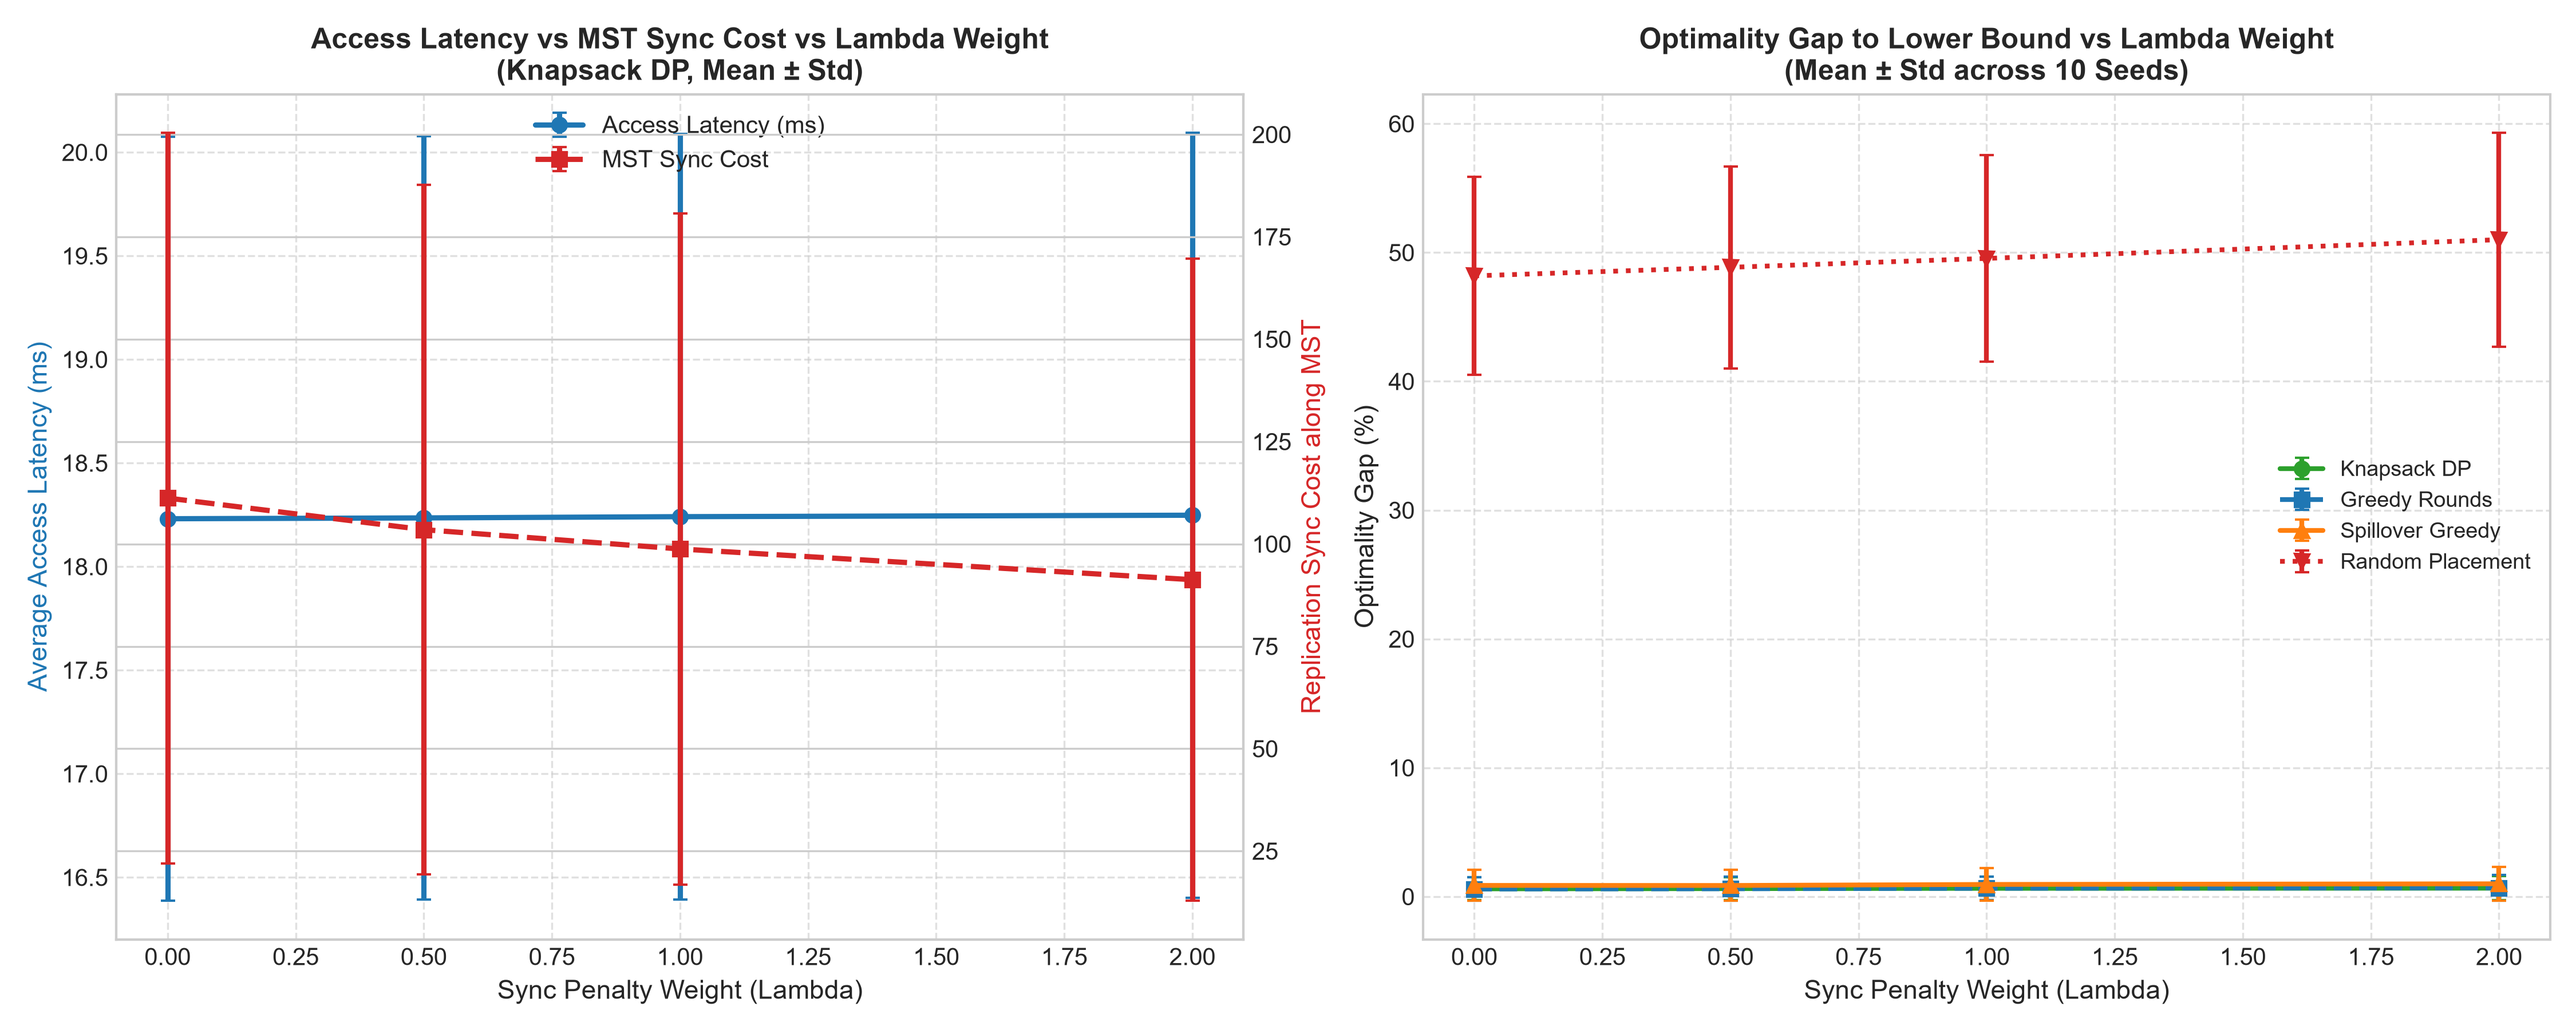
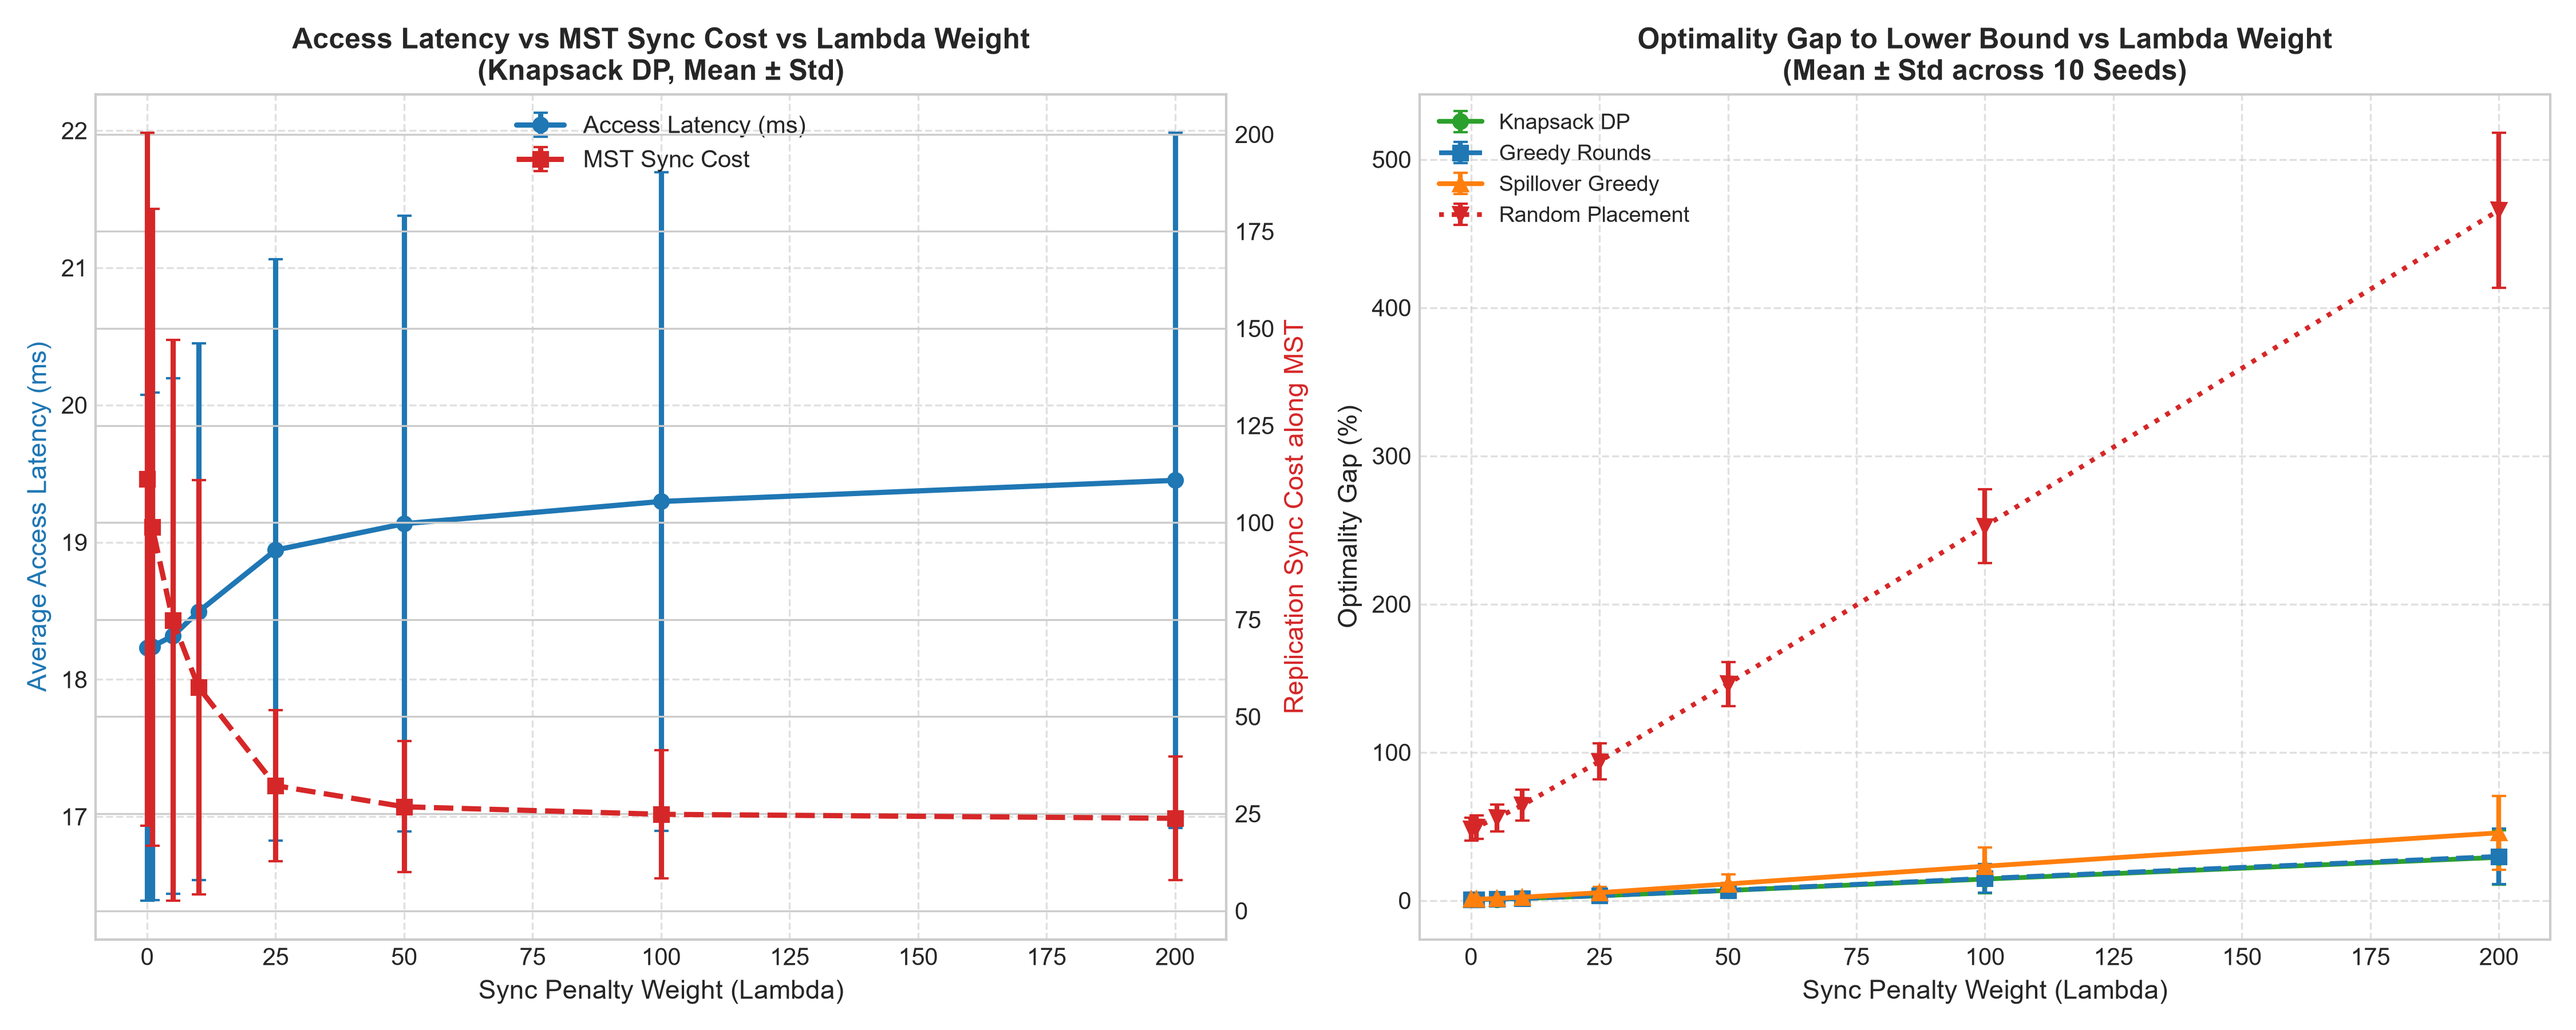
fix: add pandas, clean README, compute demo takeaways, and expand lambda/brute-force benchmarks
- Add pandas>=2.0.0 to requirements.txt and verify fresh virtualenv top-to-bottom
- Clean README.md: remove non-existent johnson.py and Johnson references, ensuring tree matches disk
- Make takeaways 3 and 4 in run_demo.py dynamically computed from real instance metrics
- Re-run lambda sensitivity with lambda in [0, 1, 5, 10, 25, 50, 100, 200] across 10 seeds
- Add 60-instance brute-force optimality experiment with CSV per-instance gap reporting

diff --git a/experiments/run_experiments.py b/experiments/run_experiments.py
@@ -498,7 +498,8 @@ def benchmark_placement_lambda(
     num_tasks: int = 35,
 ) -> List[Dict[str, Any]]:
     """Evaluates access latency vs MST sync cost trade-off across lambda weights."""
-    print(f"\n--- Running Lambda Sensitivity Sweep (0.0, 0.5, 1.0, 2.0, {num_seeds} seeds) ---")
+    lambda_str = ", ".join(f"{l}" for l in lambdas)
+    print(f"\n--- Running Lambda Sensitivity Sweep ([{lambda_str}], {num_seeds} seeds) ---")
     results = []
 
     for lmb in lambdas:
@@ -527,7 +528,7 @@ def benchmark_placement_lambda(
 
         results.append(row)
         print(
-            f"  Lambda={lmb:3.1f} | "
+            f"  Lambda={lmb:5.1f} | "
             f"Access Lat: {row['iterative_knapsack_dp_lat_mean']:5.2f} ± {row['iterative_knapsack_dp_lat_std']:4.2f} ms | "
             f"Sync Cost: {row['iterative_knapsack_dp_sync_mean']:5.1f} ± {row['iterative_knapsack_dp_sync_std']:4.1f} | "
             f"DP Gap: {row['iterative_knapsack_dp_gap_mean']:5.2f}%"
@@ -540,6 +541,91 @@ def benchmark_placement_lambda(
         writer.writerows(results)
     print(f"Saved: {csv_path}")
     return results
+
+
+def benchmark_brute_force_optimality(
+    num_instances: int = 60,
+    num_servers: int = 5,
+    num_tasks: int = 6,
+) -> Dict[str, Any]:
+    """Evaluates Iterative Knapsack DP against the exact Brute-Force optimum on random tiny instances.
+
+    Generates num_instances random tiny instances with random server capacities,
+    link latencies, task demands, client access traffic, and replication traffic.
+    Saves results to brute_force_optimality_gap.csv.
+    """
+    print(f"\n--- Running Brute-Force Optimality Experiment ({num_instances} instances: {num_servers} servers, {num_tasks} tasks) ---")
+    rows: List[Dict[str, Any]] = []
+    gaps: List[float] = []
+
+    for i in range(num_instances):
+        seed = 2000 + i
+        g = generate_cloud_topology(
+            num_nodes=num_servers,
+            edge_density=0.50,
+            latency_range=(5.0, 30.0),
+            capacity_range=(35, 65),
+            seed=seed,
+        )
+        tasks = generate_synthetic_workload(
+            graph=g,
+            num_tasks=num_tasks,
+            demand_range=(15, 35),
+            requests_per_task=(10.0, 100.0),
+            replication_traffic_range=(2.0, 20.0),
+            seed=seed,
+        )
+        opt = CloudPlacementOptimizer(g, tasks, lambda_sync=1.0)
+        report = opt.optimize()
+
+        bf = report.strategy_metrics.get("brute_force_optimal")
+        dp = report.strategy_metrics.get("iterative_knapsack_dp")
+
+        if bf is not None and dp is not None and bf.total_objective > 0:
+            gap_pct = max(0.0, ((dp.total_objective - bf.total_objective) / bf.total_objective) * 100.0)
+            gaps.append(gap_pct)
+            rows.append({
+                "instance_id": i + 1,
+                "seed": seed,
+                "num_servers": num_servers,
+                "num_tasks": num_tasks,
+                "bf_total_objective": round(bf.total_objective, 2),
+                "dp_total_objective": round(dp.total_objective, 2),
+                "optimality_gap_pct": round(gap_pct, 4),
+                "bf_placed_tasks": bf.placed_tasks_count,
+                "dp_placed_tasks": dp.placed_tasks_count,
+                "bf_access_latency_ms": round(bf.average_access_latency, 2),
+                "dp_access_latency_ms": round(dp.average_access_latency, 2),
+                "bf_sync_cost": round(bf.average_sync_cost, 2),
+                "dp_sync_cost": round(dp.average_sync_cost, 2),
+            })
+
+    csv_path = os.path.join(RESULTS_DIR, "brute_force_optimality_gap.csv")
+    with open(csv_path, "w", newline="", encoding="utf-8") as f:
+        writer = csv.DictWriter(f, fieldnames=rows[0].keys())
+        writer.writeheader()
+        writer.writerows(rows)
+    print(f"Saved: {csv_path}")
+
+    mean_gap = statistics.mean(gaps)
+    median_gap = statistics.median(gaps)
+    max_gap = max(gaps)
+    exceed_5 = sum(1 for g in gaps if g > 5.0)
+
+    print("\n--- Brute-Force Optimality Summary ---")
+    print(f"  Total Tiny Instances Evaluated : {len(gaps)}")
+    print(f"  Mean Optimality Gap            : {mean_gap:.4f}%")
+    print(f"  Median Optimality Gap          : {median_gap:.4f}%")
+    print(f"  Maximum Optimality Gap         : {max_gap:.4f}%")
+    print(f"  Instances Exceeding 5% Gap     : {exceed_5} / {len(gaps)} ({exceed_5 / len(gaps) * 100.0:.1f}%)")
+
+    return {
+        "mean_gap": mean_gap,
+        "median_gap": median_gap,
+        "max_gap": max_gap,
+        "exceed_5_count": exceed_5,
+        "total_instances": len(gaps),
+    }
 
 
 # ==============================================================================
@@ -857,7 +943,8 @@ def main():
     cap_res = benchmark_placement_capacity(multipliers=[0.25, 0.50, 0.75, 1.00, 1.25, 1.50, 2.00], num_seeds=10)
     task_res = benchmark_placement_num_tasks(task_counts=[15, 25, 35, 50, 75], num_seeds=10)
     size_res, density_res = benchmark_placement_graph_size_and_density(sizes=[15, 30, 50, 75], densities=[0.15, 0.35, 0.60, 0.85], num_seeds=10)
-    lambda_res = benchmark_placement_lambda(lambdas=[0.0, 0.5, 1.0, 2.0], num_seeds=10)
+    lambda_res = benchmark_placement_lambda(lambdas=[0.0, 1.0, 5.0, 10.0, 25.0, 50.0, 100.0, 200.0], num_seeds=10)
+    bf_res = benchmark_brute_force_optimality(num_instances=60, num_servers=5, num_tasks=6)
 
     # 3. Generate Visualizations with Error Bars
     print("\n--- Generating Publication-Grade Figures with Error Bars ---")

diff --git a/run_demo.py b/run_demo.py
@@ -171,10 +171,47 @@ def run_demo(lambda_sync: float = 0.5) -> None:
     latency_improvement_vs_rand = ((rand_m.average_access_latency - dp_m.average_access_latency) / rand_m.average_access_latency * 100.0)
     gap_vs_lower_bound = ((dp_m.total_objective - lb_obj) / lb_obj * 100.0)
 
+    # Compute actual DP vs Spill-Over gap
+    dp_obj = dp_m.total_objective
+    sp_obj = sp_m.total_objective
+    if dp_obj < sp_obj:
+        sp_gap_pct = (sp_obj - dp_obj) / sp_obj * 100.0
+        t3_str = (
+            f"Knapsack DP achieves a {sp_gap_pct:.2f}% lower total objective than Spill-Over Greedy "
+            f"({dp_obj:,.1f} vs {sp_obj:,.1f}, saving {sp_obj - dp_obj:,.1f} cost units)."
+        )
+    elif dp_obj > sp_obj:
+        sp_gap_pct = (dp_obj - sp_obj) / sp_obj * 100.0
+        t3_str = (
+            f"Spill-Over Greedy achieves a {sp_gap_pct:.2f}% lower objective on this instance "
+            f"({sp_obj:,.1f} vs {dp_obj:,.1f})."
+        )
+    else:
+        t3_str = f"Knapsack DP and Spill-Over Greedy tied with identical objective ({dp_obj:,.1f})."
+
+    # Compute fleet host counts and min/max utilization
+    hosting_servers = [s for s in report.server_summaries if s.placed_tasks]
+    num_hosting = len(hosting_servers)
+    total_servers = len(report.server_summaries)
+    if hosting_servers:
+        hosting_utils = [s.utilization_percent for s in hosting_servers]
+        min_host_util = min(hosting_utils)
+        max_host_util = max(hosting_utils)
+        all_utils = [s.utilization_percent for s in report.server_summaries]
+        min_all_util = min(all_utils)
+        max_all_util = max(all_utils)
+        t4_str = (
+            f"{num_hosting} of {total_servers} servers host tasks. "
+            f"Utilization on hosting servers ranges from {min_host_util:.1f}% to {max_host_util:.1f}% "
+            f"(overall fleet min: {min_all_util:.1f}%, max: {max_all_util:.1f}%)."
+        )
+    else:
+        t4_str = f"0 of {total_servers} servers host tasks (0.0% utilization)."
+
     print(f"  1. Solution Quality  : Knapsack DP is within {gap_vs_lower_bound:.2f}% of the theoretical unconstrained lower bound.")
     print(f"  2. Baseline Advantage: Knapsack DP cuts client access latency by {latency_improvement_vs_rand:.1f}% compared to Random placement.")
-    print(f"  3. Regret Coordination: Knapsack DP outperforms simple Spill-Over Greedy by coordinating bids across congested servers.")
-    print(f"  4. Fleet Distribution: Tasks are balanced across the whole fleet, avoiding bottlenecking on any single server.")
+    print(f"  3. Regret vs Greedy  : {t3_str}")
+    print(f"  4. Fleet Distribution: {t4_str}")
     print(f"  5. Sync Efficiency   : Server {report.sync_hub_node} serves as the centralized sync hub, keeping replication delay to {report.backbone_sync_latency:.2f} ms.")
     print("=" * 94 + "\n")
 

diff --git a/README.md b/README.md
@@ -62,24 +62,24 @@ cloud-task-placement/
 │   ├── graph/                     # Graph primitives and topology generation
 │   │   ├── __init__.py
 │   │   ├── graph.py               # Adjacency-list Graph and Node classes
-│   │   └── generator.py           # Reproducible synthetic topology generator
+│   │   ├── generator.py           # Reproducible synthetic topology generator
+│   │   ├── min_heap.py            # Binary Min-Heap priority queue with decrease-key
+│   │   └── disjoint_set.py        # Disjoint Set Union (DSU) with path compression & union-by-rank
 │   ├── mst/                       # Minimum Spanning Tree algorithms
 │   │   ├── __init__.py
-│   │   ├── dsu.py                 # Disjoint Set Union with path compression & rank
 │   │   ├── kruskal.py             # Kruskal's algorithm (O(E log E))
 │   │   └── prim.py                # Prim's algorithm with Min-Heap (O(E log V))
 │   ├── shortest_paths/            # Shortest path routing algorithms
 │   │   ├── __init__.py
-│   │   ├── priority_queue.py      # Binary Min-Heap with decrease-key capability
 │   │   ├── dijkstra.py            # Dijkstra's SSSP and APSP
 │   │   ├── bellman_ford.py        # Bellman-Ford SSSP (O(VE)) with negative cycle check
-│   │   ├── floyd_warshall.py      # Floyd-Warshall APSP (O(V^3))
-│   │   └── johnson.py             # Johnson's APSP for sparse graphs
+│   │   └── floyd_warshall.py      # Floyd-Warshall APSP (O(V^3))
 │   ├── placement/                 # Resource allocation & knapsack schedulers
 │   │   ├── __init__.py
 │   │   ├── knapsack_dp.py         # 0-1 Knapsack DP (pseudo-polynomial O(n*W))
 │   │   ├── greedy_scheduler.py    # Greedy ratio scheduler & fractional upper bound
-│   │   └── exact_solver.py        # Exact brute-force assignment solver
+│   │   ├── brute_force.py         # Exact brute-force assignment solver
+│   │   └── models.py              # Placement dataclasses and solution containers
 │   └── optimizer/                 # End-to-end optimizer pipeline
 │       ├── __init__.py
 │       ├── workload.py            # Task and Workload data classes
@@ -235,7 +235,7 @@ As $\lambda$ increases from $0.0$ to $2.0$:
 ## 8. Implementation Roadmap
 
 - [x] **Stage 1**: Custom Adjacency List Graph, synthetic cloud topology generator, benchmark datasets, and unit tests.
-- [x] **Stage 2**: Disjoint Set Union, Priority Queue Min-Heap, MST (Prim & Kruskal), and Shortest Paths (Dijkstra, Bellman-Ford, Floyd-Warshall, Johnson).
+- [x] **Stage 2**: Disjoint Set Union, Priority Queue Min-Heap, MST (Prim & Kruskal), and Shortest Paths (Dijkstra, Bellman-Ford, Floyd-Warshall).
 - [x] **Stage 3**: 0-1 Knapsack Dynamic Programming, greedy ratio schedulers, and fractional upper bound.
 - [x] **Stage 4**: Integrated multi-round placement optimizer (`CloudPlacementOptimizer`), regret coordination, routing tables, and demo (`run_demo.py`).
 - [x] **Stage 5**: 10-repeat runtime benchmarks, 10-seed placement quality sensitivity experiments, and Matplotlib figure generation.
